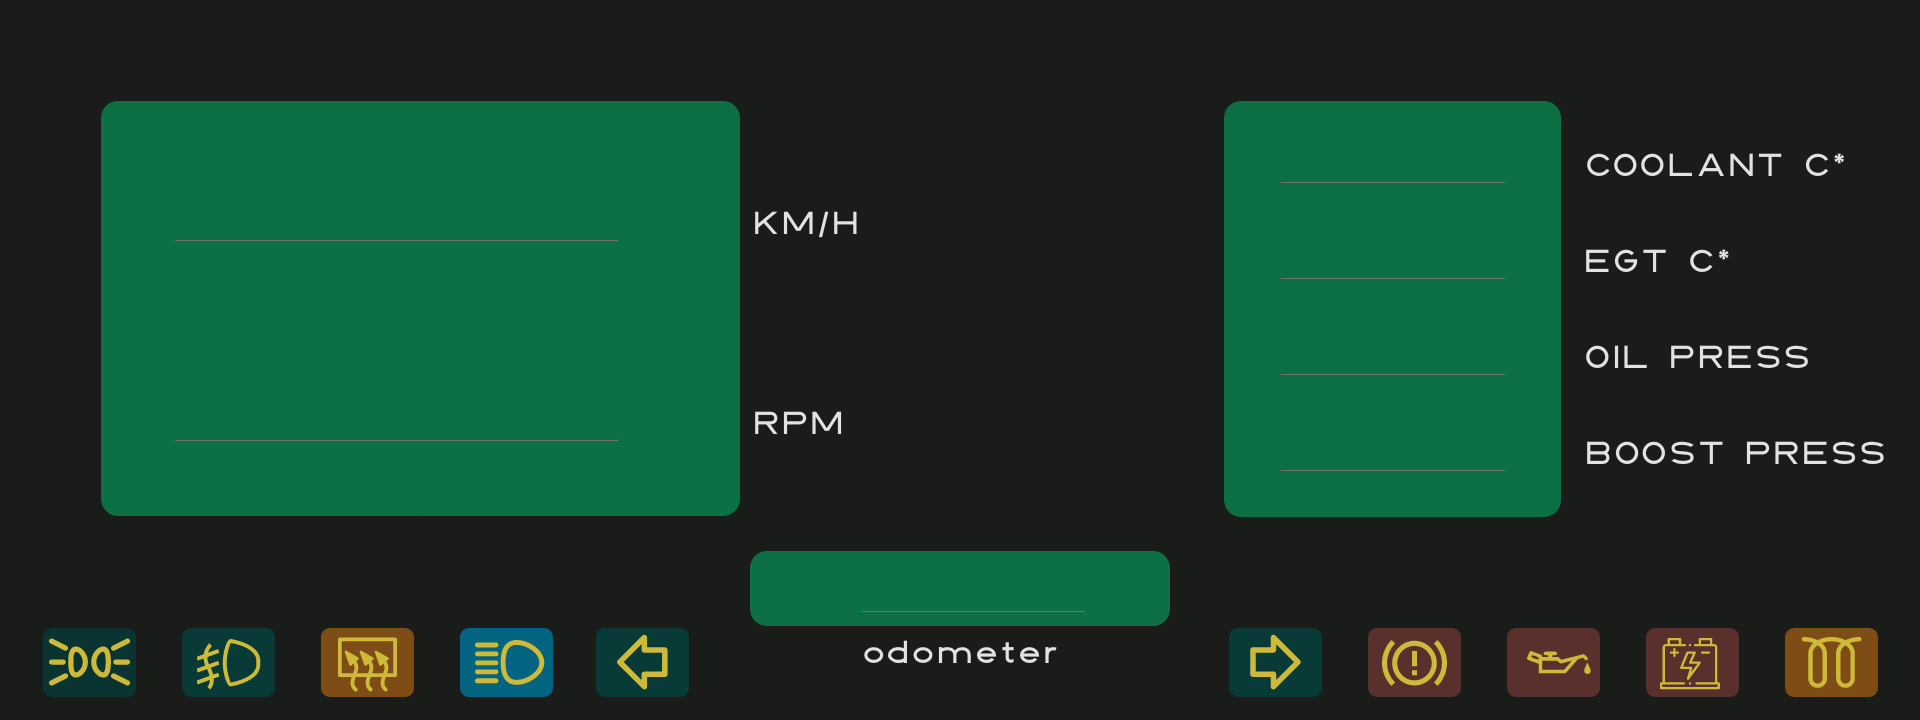
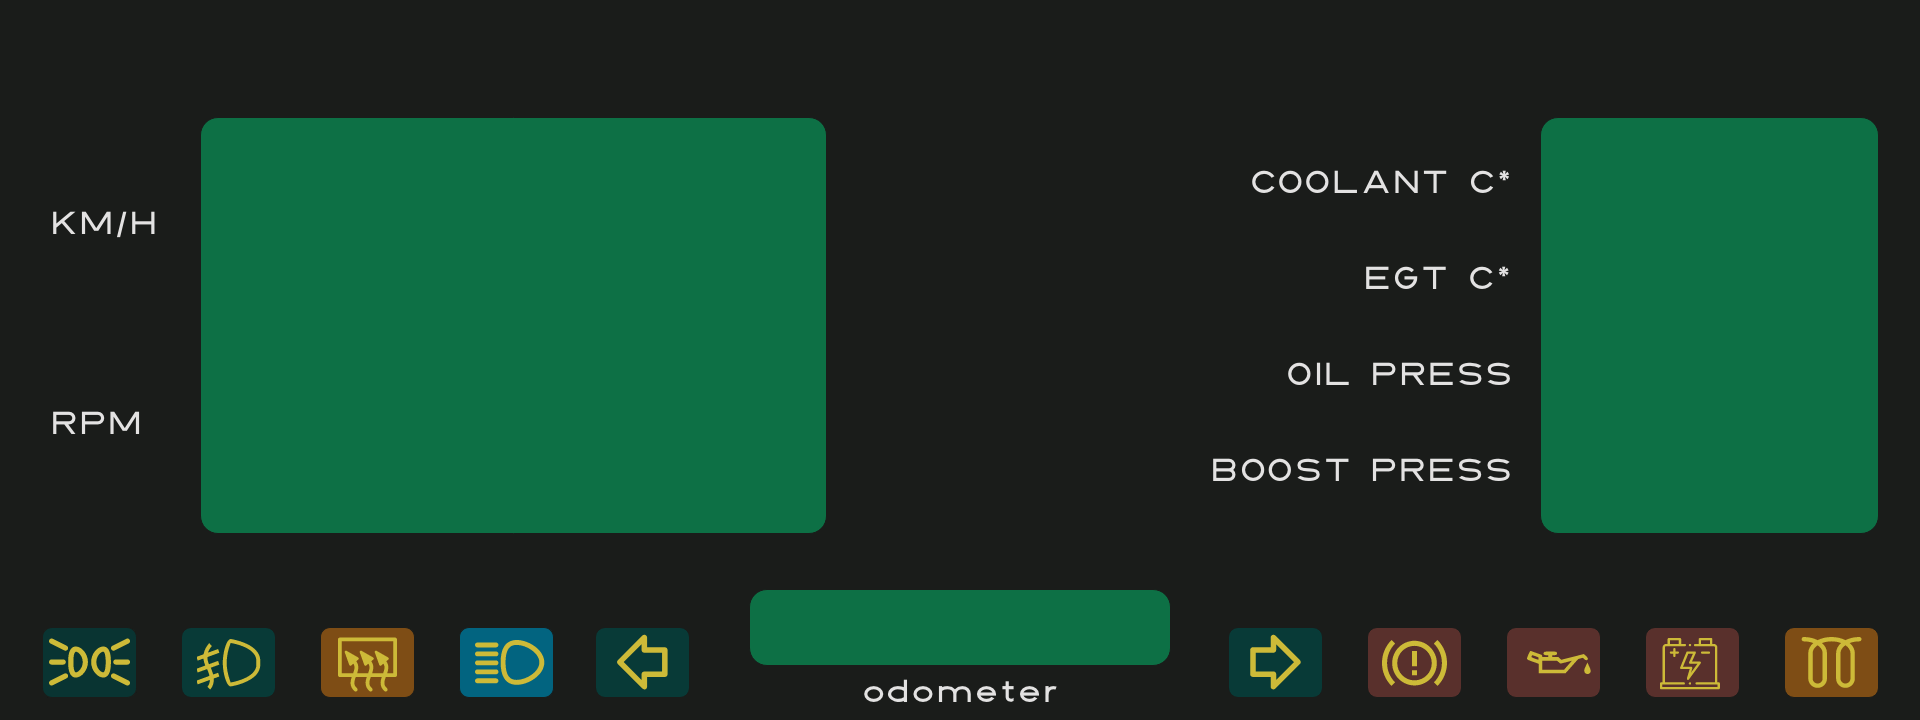
Working on canbus stuff again... relearning what I was doing.

Changed region(s): [[0.625, 0.1222, 1.0, 0.7639], [0.0312, 0.1222, 0.625, 0.825], [0.375, 0.8556, 0.625, 0.9778]]

diff --git a/textonly.py b/textonly.py
@@ -1,7 +1,7 @@
 import os
+import serial
 
-#import RPi.GPIO as GPIO
-from typing import Tuple
+#import RPi.GPIO as GPIO from typing import Tuple
 
 '''import constants used by pygame such as event type = QUIT'''
 import pygame.locals
@@ -85,8 +85,20 @@ clock = pygame.time.Clock()
 
 '''Display Font'''
 font_path = "fonts/DSEG7Classic-Bold.ttf"
-font_size = 174
-fontObj = pygame.font.Font(font_path, font_size)
+font_size_big = 174
+font_size_md = 74
+font_size_sml = 50
+#fontObj = pygame.font.Font(font_path, font_size_big)
+
+'''Initalize Serial Port'''
+#ser = serial.Serial ("/dev/ttyAMA0", timeout=0.6) #use this line for raspberry pi 2
+ser = serial.Serial ("/dev/ttyS0", timeout=0.6) #use this line for raspberry pi 3
+ser.baudrate = 57600
+try:
+	ser.flushInput()
+except:
+	print("Error Flushing Serial on boot")
+
 
 # Main Loop
 running = True
@@ -95,30 +107,42 @@ while running:
     # Background image
     screen.blit(background, (0, 0))
 
-    # # # Speedometer Font Testing ###
-    # Speed in hundreds
-    font_speedunits = pygame.font.Font(font_path, font_size)
-    speedtext = font_speedunits.render("1", 1, indHL)
-    #speedtext_rect = speedtext.get_rect()
-    #speedtext_rect.right = 435
-    #screen.blit(speedtext, (828,217), speedtext_rect)
-    screen.blit(speedtext, (281, 131))
-
-    # Speed in tens
-    font_speedunits = pygame.font.Font(font_path, font_size)
-    speedtext = font_speedunits.render("2", 0, indHL)
-    screen.blit(speedtext, (962, 217))
-    # Speed in singles
-    font_speedunits = pygame.font.Font(font_path, font_size)
-    speedtext = font_speedunits.render("8", 0, indHL)
-    screen.blit(speedtext, (1104, 217))
-    # pygame.display.flip()
-
-    # Testing the RPM gauge
-  #  if rpmstate == 12:
-   #     screen.blit(rpm200, (132, 4))
+    # # # Speedometer  Testing ###
+    font_speedunits = pygame.font.Font(font_path, font_size_big)
+    speedtext = font_speedunits.render("22", 1, indHL)
+    screen.blit(speedtext, (209, 135))
 
 
+    # RPM's
+    font_speedunits = pygame.font.Font(font_path, font_size_big)
+    speedtext = font_speedunits.render("5205", 1, indHL)
+    screen.blit(speedtext, (209, 335))
+
+
+    # Coolant Temp
+    font_speedunits = pygame.font.Font(font_path, font_size_md)
+    speedtext = font_speedunits.render("95", 0, indHL)
+    screen.blit(speedtext, (1580, 144))
+
+    # EGT
+    font_speedunits = pygame.font.Font(font_path, font_size_md)
+    speedtext = font_speedunits.render("980", 0, indHL)
+    screen.blit(speedtext, (1580, 240))
+
+    # Oil Press
+    font_speedunits = pygame.font.Font(font_path, font_size_md)
+    speedtext = font_speedunits.render("80", 0, indHL)
+    screen.blit(speedtext, (1580, 336))
+
+    # Boost Press
+    font_speedunits = pygame.font.Font(font_path, font_size_md)
+    speedtext = font_speedunits.render("20.1", 0, indHL)
+    screen.blit(speedtext, (1580, 432))
+
+    # Odometer
+    font_speedunits = pygame.font.Font(font_path, font_size_sml)
+    speedtext = font_speedunits.render("122444", 0, indHL)
+    screen.blit(speedtext, (828, 602))
 
 
     #testing the illumination button
@@ -135,6 +159,10 @@ while running:
         if event.type == pygame.QUIT:
             running = False
     pygame.display.update()
+
+
+    '''Limit screen updates to 20 frames per second so we dont use 100% cpu time'''
+    clock.tick(30)
 
     # screen.fill((255, 0, 0))
     #   pygame.display.update()
